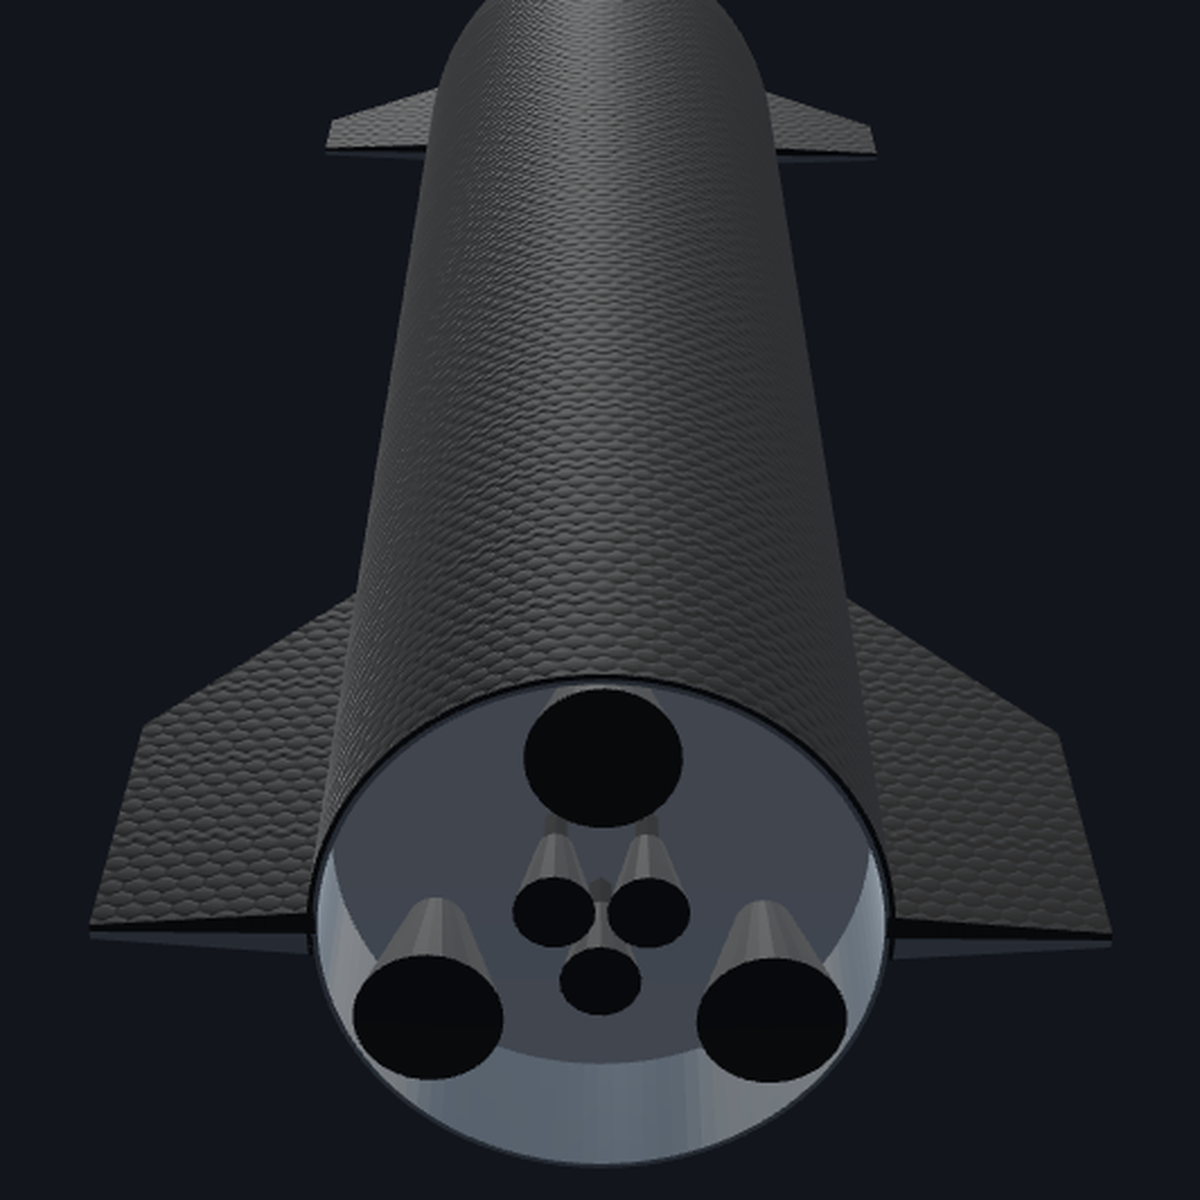
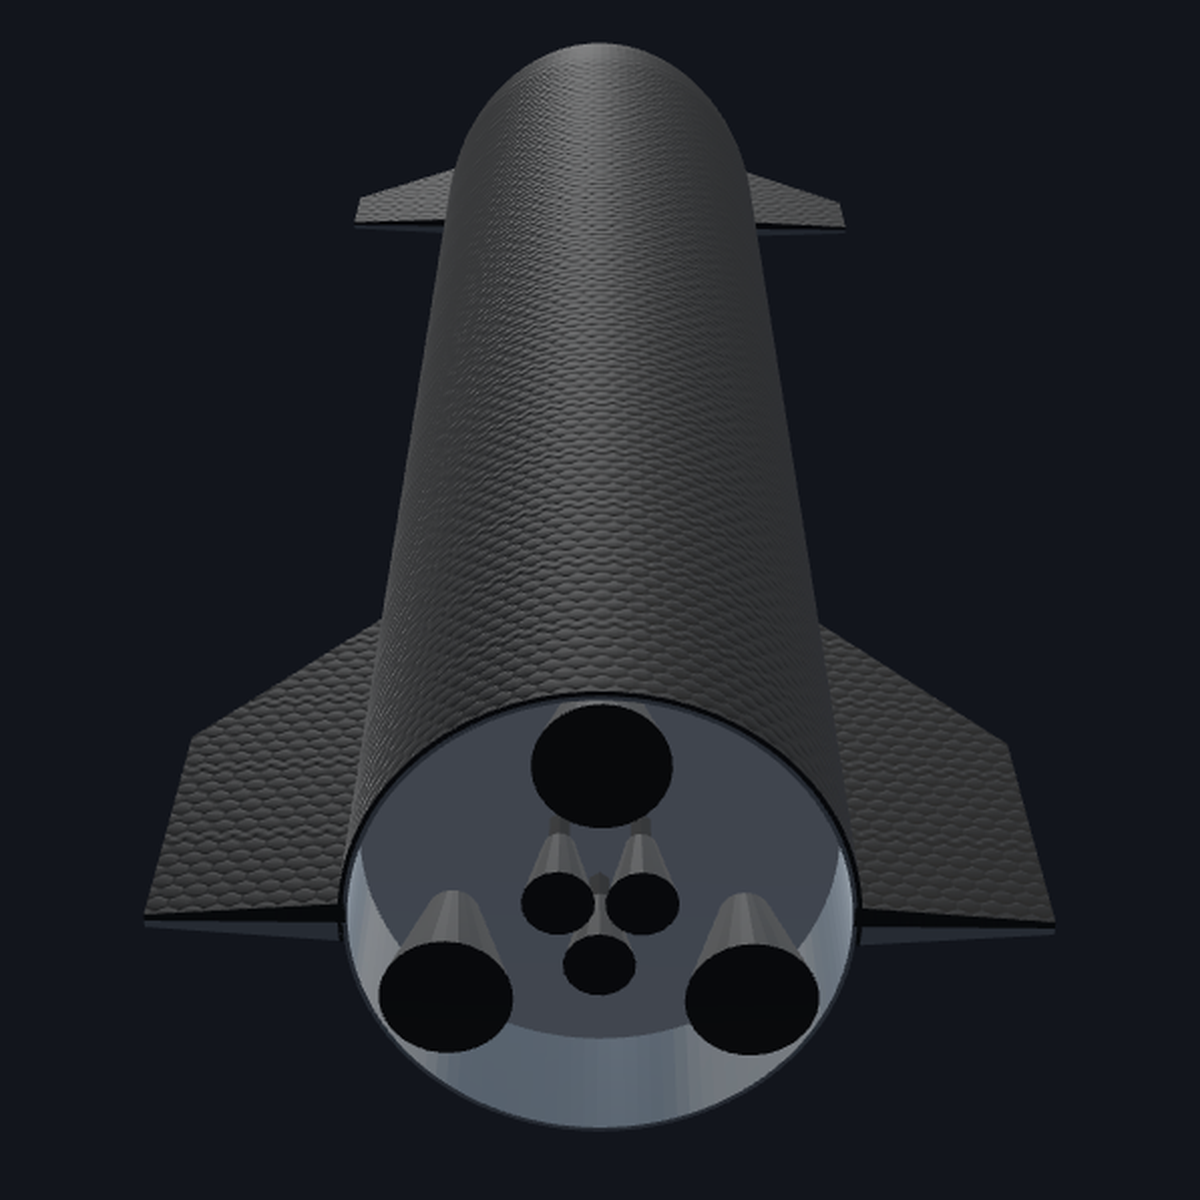
Show steel+tiles parametric preview and keep the full ship on the Printables cover.
Letterbox the underside cover so the nose stays in frame, and render the
customizer's original CAD with the same stainless/heat-shield layers as the
web CAD preview (no ground grid).

Changed region(s): [[0.0617, 0.0, 0.925, 0.9867]]

diff --git a/app.js b/app.js
@@ -26,6 +26,19 @@ const SHIPS = {
     url: "./assets/starship_ship_print_1_200.stl",
     /** Key into print_envelope.json meshes[] for measured dimensions. */
     envelopeFile: "assets/starship_ship_print_1_200.stl",
+    /** Preview layers (steel + tiled heat shield) — same look as assets/starship_cad_preview.html. */
+    layers: [
+      {
+        id: "steel",
+        role: "steel",
+        url: "./assets/starship_print_1_200_steel.stl",
+      },
+      {
+        id: "tiles",
+        role: "tiles",
+        url: "./assets/starship_print_1_200_tiles.stl",
+      },
+    ],
     bodyCenterX: 0,
     hullRadiusZ: 22.575, // measured mid-barrel Ø 45.15 mm
     embedMm: 0.35,
@@ -402,16 +415,48 @@ el.viewport.appendChild(renderer.domElement);
 const controls = new OrbitControls(camera, renderer.domElement);
 controls.enableDamping = true;
 
-scene.add(new THREE.AmbientLight(0xffffff, 0.45));
-const key = new THREE.DirectionalLight(0xffffff, 1.25);
-key.position.set(40, 70, 90);
+scene.add(new THREE.AmbientLight(0xffffff, 0.28));
+const key = new THREE.DirectionalLight(0xffffff, 0.95);
+key.position.set(-40, 80, 90);
 scene.add(key);
-const fill = new THREE.DirectionalLight(0x9eb6ff, 0.35);
-fill.position.set(-60, -30, -40);
+const fill = new THREE.DirectionalLight(0x9eb6ff, 0.32);
+fill.position.set(-60, -20, -50);
 scene.add(fill);
-const rim = new THREE.DirectionalLight(0xffe0c0, 0.35);
+const rim = new THREE.DirectionalLight(0xffe0c0, 0.4);
 rim.position.set(-20, 40, 100);
 scene.add(rim);
+/** Windward fill + high rake so hex tile relief reads on the black side. */
+const tileLight = new THREE.DirectionalLight(0xfff4e0, 0.75);
+tileLight.position.set(90, 30, -35);
+scene.add(tileLight);
+const rake = new THREE.DirectionalLight(0xffffff, 0.4);
+rake.position.set(40, 160, 10);
+scene.add(rake);
+
+/** Soft studio environment so stainless steel has something to reflect. */
+{
+  const ec = document.createElement("canvas");
+  ec.width = 1024;
+  ec.height = 512;
+  const eg = ec.getContext("2d");
+  const sky = eg.createLinearGradient(0, 0, 0, 512);
+  sky.addColorStop(0.0, "#9fb0c4");
+  sky.addColorStop(0.42, "#6d7f99");
+  sky.addColorStop(0.5, "#b8a98e");
+  sky.addColorStop(0.55, "#2e333c");
+  sky.addColorStop(1.0, "#101218");
+  eg.fillStyle = sky;
+  eg.fillRect(0, 0, 1024, 512);
+  eg.fillStyle = "rgba(255,250,240,0.9)";
+  eg.fillRect(120, 60, 180, 120);
+  eg.fillRect(620, 40, 220, 140);
+  const envTex = new THREE.CanvasTexture(ec);
+  envTex.mapping = THREE.EquirectangularReflectionMapping;
+  const pmrem = new THREE.PMREMGenerator(renderer);
+  scene.environment = pmrem.fromEquirectangular(envTex).texture;
+  envTex.dispose();
+  pmrem.dispose();
+}
 
 /** Root for ship + text so scale % applies to both. */
 const modelGroup = new THREE.Group();
@@ -421,6 +466,22 @@ const shipMaterial = new THREE.MeshStandardMaterial({
   color: new THREE.Color(el.color.value),
   metalness: 0.42,
   roughness: 0.4,
+});
+/** Parametric preview: polished stainless (hull color picker drives this). */
+const steelMaterial = new THREE.MeshStandardMaterial({
+  color: new THREE.Color("#c8ced6"),
+  metalness: 0.95,
+  roughness: 0.2,
+  envMapIntensity: 0.7,
+});
+/** Parametric preview: black heat-shield tiles with hex bump. */
+const tilesMaterial = new THREE.MeshStandardMaterial({
+  color: new THREE.Color(0x1e2126),
+  metalness: 0.2,
+  roughness: 0.62,
+  envMapIntensity: 0.35,
+  bumpMap: makeHexTileTexture(),
+  bumpScale: 1.1,
 });
 const textMaterial = new THREE.MeshStandardMaterial({
   color: new THREE.Color(el.textColor.value),
@@ -438,6 +499,7 @@ let fontGlyphs = new Set();
 let currentFontId = "optimer-bold";
 const fontCache = new Map();
 let shipGeometry = null;
+/** Display object: Mesh (legacy) or Group of layered meshes (parametric). */
 let shipMesh = null;
 let textMesh = null;
 let ready = false;
@@ -447,6 +509,82 @@ const csgEvaluator = new Evaluator();
 // STL ship has position/normal/color — no uvs. Default evaluator attrs include uv and crash.
 csgEvaluator.attributes = ["position", "normal"];
 csgEvaluator.useGroups = false;
+
+/** Seamless hexagonal heat-tile bump map (same recipe as starship_cad_preview.html). */
+function makeHexTileTexture() {
+  const S = 512;
+  const c = document.createElement("canvas");
+  c.width = c.height = S;
+  const g = c.getContext("2d");
+  g.fillStyle = "#3a3a3a";
+  g.fillRect(0, 0, S, S);
+  const px = S / 6;
+  const py = S / 7;
+  const R = (py / 1.5) * 0.94;
+  for (let j = -1; j <= 8; j++) {
+    for (let i = -1; i <= 7; i++) {
+      const cx = i * px + (j % 2 ? px / 2 : 0);
+      const cy = j * py;
+      const grad = g.createRadialGradient(cx, cy, R * 0.15, cx, cy, R);
+      grad.addColorStop(0, "#c8c8c8");
+      grad.addColorStop(0.8, "#a8a8a8");
+      grad.addColorStop(1, "#6a6a6a");
+      g.fillStyle = grad;
+      g.beginPath();
+      for (let k = 0; k < 6; k++) {
+        const a = Math.PI / 6 + k * (Math.PI / 3);
+        const x = cx + R * Math.cos(a);
+        const y = cy + R * Math.sin(a);
+        if (k) g.lineTo(x, y);
+        else g.moveTo(x, y);
+      }
+      g.closePath();
+      g.fill();
+    }
+  }
+  const tex = new THREE.CanvasTexture(c);
+  tex.wrapS = tex.wrapT = THREE.RepeatWrapping;
+  return tex;
+}
+
+/**
+ * Cylindrical UV unwrap for the tile shell (print-scale, Z-up, before orient()).
+ * Flap faces keep a planar map so the hex pattern doesn't smear.
+ */
+function applyTileUVs(geom, scaleMm = 13) {
+  const HULL_R = 22.575;
+  const p = geom.attributes.position;
+  const n = p.count;
+  const uv = new Float32Array(n * 2);
+  const a = new THREE.Vector3();
+  const b = new THREE.Vector3();
+  const c = new THREE.Vector3();
+  const ab = new THREE.Vector3();
+  const ac = new THREE.Vector3();
+  const nrm = new THREE.Vector3();
+  for (let i = 0; i < n; i += 3) {
+    a.fromBufferAttribute(p, i);
+    b.fromBufferAttribute(p, i + 1);
+    c.fromBufferAttribute(p, i + 2);
+    nrm.crossVectors(ab.subVectors(b, a), ac.subVectors(c, a)).normalize();
+    const mx = (a.x + b.x + c.x) / 3;
+    const my = (a.y + b.y + c.y) / 3;
+    const mr = Math.hypot(mx, my) || 1;
+    const radial = Math.abs((nrm.x * mx + nrm.y * my) / mr) > 0.5;
+    for (let k = 0; k < 3; k++) {
+      const v = [a, b, c][k];
+      const o = (i + k) * 2;
+      if (radial) {
+        uv[o] = (Math.atan2(v.y, v.x) * HULL_R) / scaleMm;
+        uv[o + 1] = v.z / scaleMm;
+      } else {
+        uv[o] = v.y / scaleMm;
+        uv[o + 1] = v.z / scaleMm;
+      }
+    }
+  }
+  geom.setAttribute("uv", new THREE.BufferAttribute(uv, 2));
+}
 
 async function loadFontById(fontId) {
   const id = FONT_OPTIONS[fontId] ? fontId : "optimer-bold";
@@ -586,6 +724,7 @@ function applyEnvelopeForShip() {
 }
 
 const shipGeometryCache = new Map();
+const shipLayerCache = new Map();
 
 async function loadShipGeometry(shipDef) {
   if (shipGeometryCache.has(shipDef.id)) {
@@ -598,6 +737,34 @@ async function loadShipGeometry(shipDef) {
   return geometry;
 }
 
+async function loadShipLayers(shipDef) {
+  if (!shipDef.layers?.length) return null;
+  if (shipLayerCache.has(shipDef.id)) {
+    return shipLayerCache.get(shipDef.id);
+  }
+  const loader = new STLLoader();
+  const parts = await Promise.all(
+    shipDef.layers.map(async (layer) => {
+      const geometry = await loader.loadAsync(layer.url);
+      if (layer.role === "tiles") applyTileUVs(geometry);
+      geometry.computeVertexNormals();
+      shipDef.orient(geometry);
+      const material =
+        layer.role === "tiles" ? tilesMaterial : steelMaterial;
+      return new THREE.Mesh(geometry, material);
+    })
+  );
+  const group = new THREE.Group();
+  for (const mesh of parts) group.add(mesh);
+  shipLayerCache.set(shipDef.id, group);
+  return group;
+}
+
+function buildShipDisplay(geometry, shipDef, layers) {
+  if (layers) return layers;
+  return new THREE.Mesh(geometry, shipMaterial);
+}
+
 /** Swap the base mesh, retune scale/placement to its 1:200 preset, and rebuild text. */
 async function applyShipSelection(shipId, { retune = true } = {}) {
   const id = SHIPS[shipId] ? shipId : DEFAULT_SHIP_ID;
@@ -606,19 +773,26 @@ async function applyShipSelection(shipId, { retune = true } = {}) {
   applyEnvelopeForShip();
 
   setStatus(`Loading ${ship.label}…`);
-  const geometry = await loadShipGeometry(ship);
+  const [geometry, layers] = await Promise.all([
+    loadShipGeometry(ship),
+    loadShipLayers(ship),
+  ]);
   if (shipMesh) modelGroup.remove(shipMesh);
   shipGeometry = geometry;
-  shipMesh = new THREE.Mesh(shipGeometry, shipMaterial);
+  shipMesh = buildShipDisplay(geometry, ship, layers);
   modelGroup.add(shipMesh);
 
   if (retune) {
     el.scale.value = String(coreOneScalePercent());
     el.size.value = String(ship.defaultSizeMm);
     el.pos.value = String(ship.defaultPosMm);
+    if (ship.layers?.length) {
+      el.color.value = "#c8ced6";
+    }
   }
   updateLabels();
   applyModelScale();
+  applyColor();
   if (ready) {
     await flushRebuild();
     frameCamera();
@@ -700,7 +874,10 @@ function syncPresetActive(container, hex) {
 }
 
 function applyColor() {
-  shipMaterial.color.set(el.color.value);
+  const hull = el.color.value;
+  shipMaterial.color.set(hull);
+  steelMaterial.color.set(hull);
+  // Layered parametric preview keeps tiles black; hull picker only tints steel.
   textMaterial.color.set(el.textColor.value);
   // Slight lift on dark letter colors so they stay readable on Signal Red.
   const hsl = { h: 0, s: 0, l: 0 };
@@ -1568,13 +1745,14 @@ async function boot() {
       ? el.fontStyle.value
       : "optimer-bold";
 
-    const [, geometry] = await Promise.all([
+    const [, geometry, layers] = await Promise.all([
       applyFontSelection(initialFontId, { rebuild: false }),
       loadShipGeometry(ship),
+      loadShipLayers(ship),
     ]);
 
     shipGeometry = geometry;
-    shipMesh = new THREE.Mesh(shipGeometry, shipMaterial);
+    shipMesh = buildShipDisplay(geometry, ship, layers);
     modelGroup.add(shipMesh);
     applyModelScale();
 

diff --git a/index.html b/index.html
@@ -8,7 +8,7 @@
       name="description"
       content="Put your name on a 3D-printable Starship: original parametric CAD, one-piece print, MMU-ready. Download STL, 3MF, or a PNG cover."
     />
-    <link rel="stylesheet" href="styles.css?v=2.0.2" />
+    <link rel="stylesheet" href="styles.css?v=2.0.3" />
   </head>
   <body>
     <div id="app">
@@ -16,7 +16,7 @@
         <header class="brand">
           <p class="eyebrow">
             Printables customizer
-            <span class="version" id="app-version" aria-label="App version">v2.0.2</span>
+            <span class="version" id="app-version" aria-label="App version">v2.0.3</span>
           </p>
           <h1>Starship Custom Name</h1>
           <p class="lede">
@@ -64,7 +64,7 @@
             <span>Hull color <em class="hint">preview / 3MF</em></span>
             <div class="color-row">
               <div class="presets" id="hull-presets" data-target="color" role="group" aria-label="Hull color presets"></div>
-              <input id="color" type="color" value="#e10600" aria-label="Custom hull color" />
+              <input id="color" type="color" value="#c8ced6" aria-label="Custom hull color" />
             </div>
           </div>
 
@@ -72,7 +72,7 @@
             <span>Name text color <em class="hint">preview / 3MF</em></span>
             <div class="color-row">
               <div class="presets" id="text-presets" data-target="text-color" role="group" aria-label="Name text color presets"></div>
-              <input id="text-color" type="color" value="#f2f0e6" aria-label="Custom name text color" />
+              <input id="text-color" type="color" value="#e10600" aria-label="Custom name text color" />
             </div>
           </div>
 
@@ -200,7 +200,7 @@
               rel="noopener"
               >source</a
             >
-            · <span id="footer-version">v2.0.2</span>)
+            · <span id="footer-version">v2.0.3</span>)
           </p>
           <p>
             The parametric CAD base model is original work — CC BY 4.0, remix away.
@@ -244,6 +244,6 @@
         }
       }
     </script>
-    <script type="module" src="app.js?v=2.0.2"></script>
+    <script type="module" src="app.js?v=2.0.3"></script>
   </body>
 </html>

diff --git a/version.js b/version.js
@@ -1,6 +1,6 @@
 /** App version & author — bump when shipping user-facing changes. */
 export const APP_NAME = "Starship Custom Name";
-export const APP_VERSION = "2.0.2";
+export const APP_VERSION = "2.0.3";
 
 export const AUTHOR = {
   name: "David Leeds",
